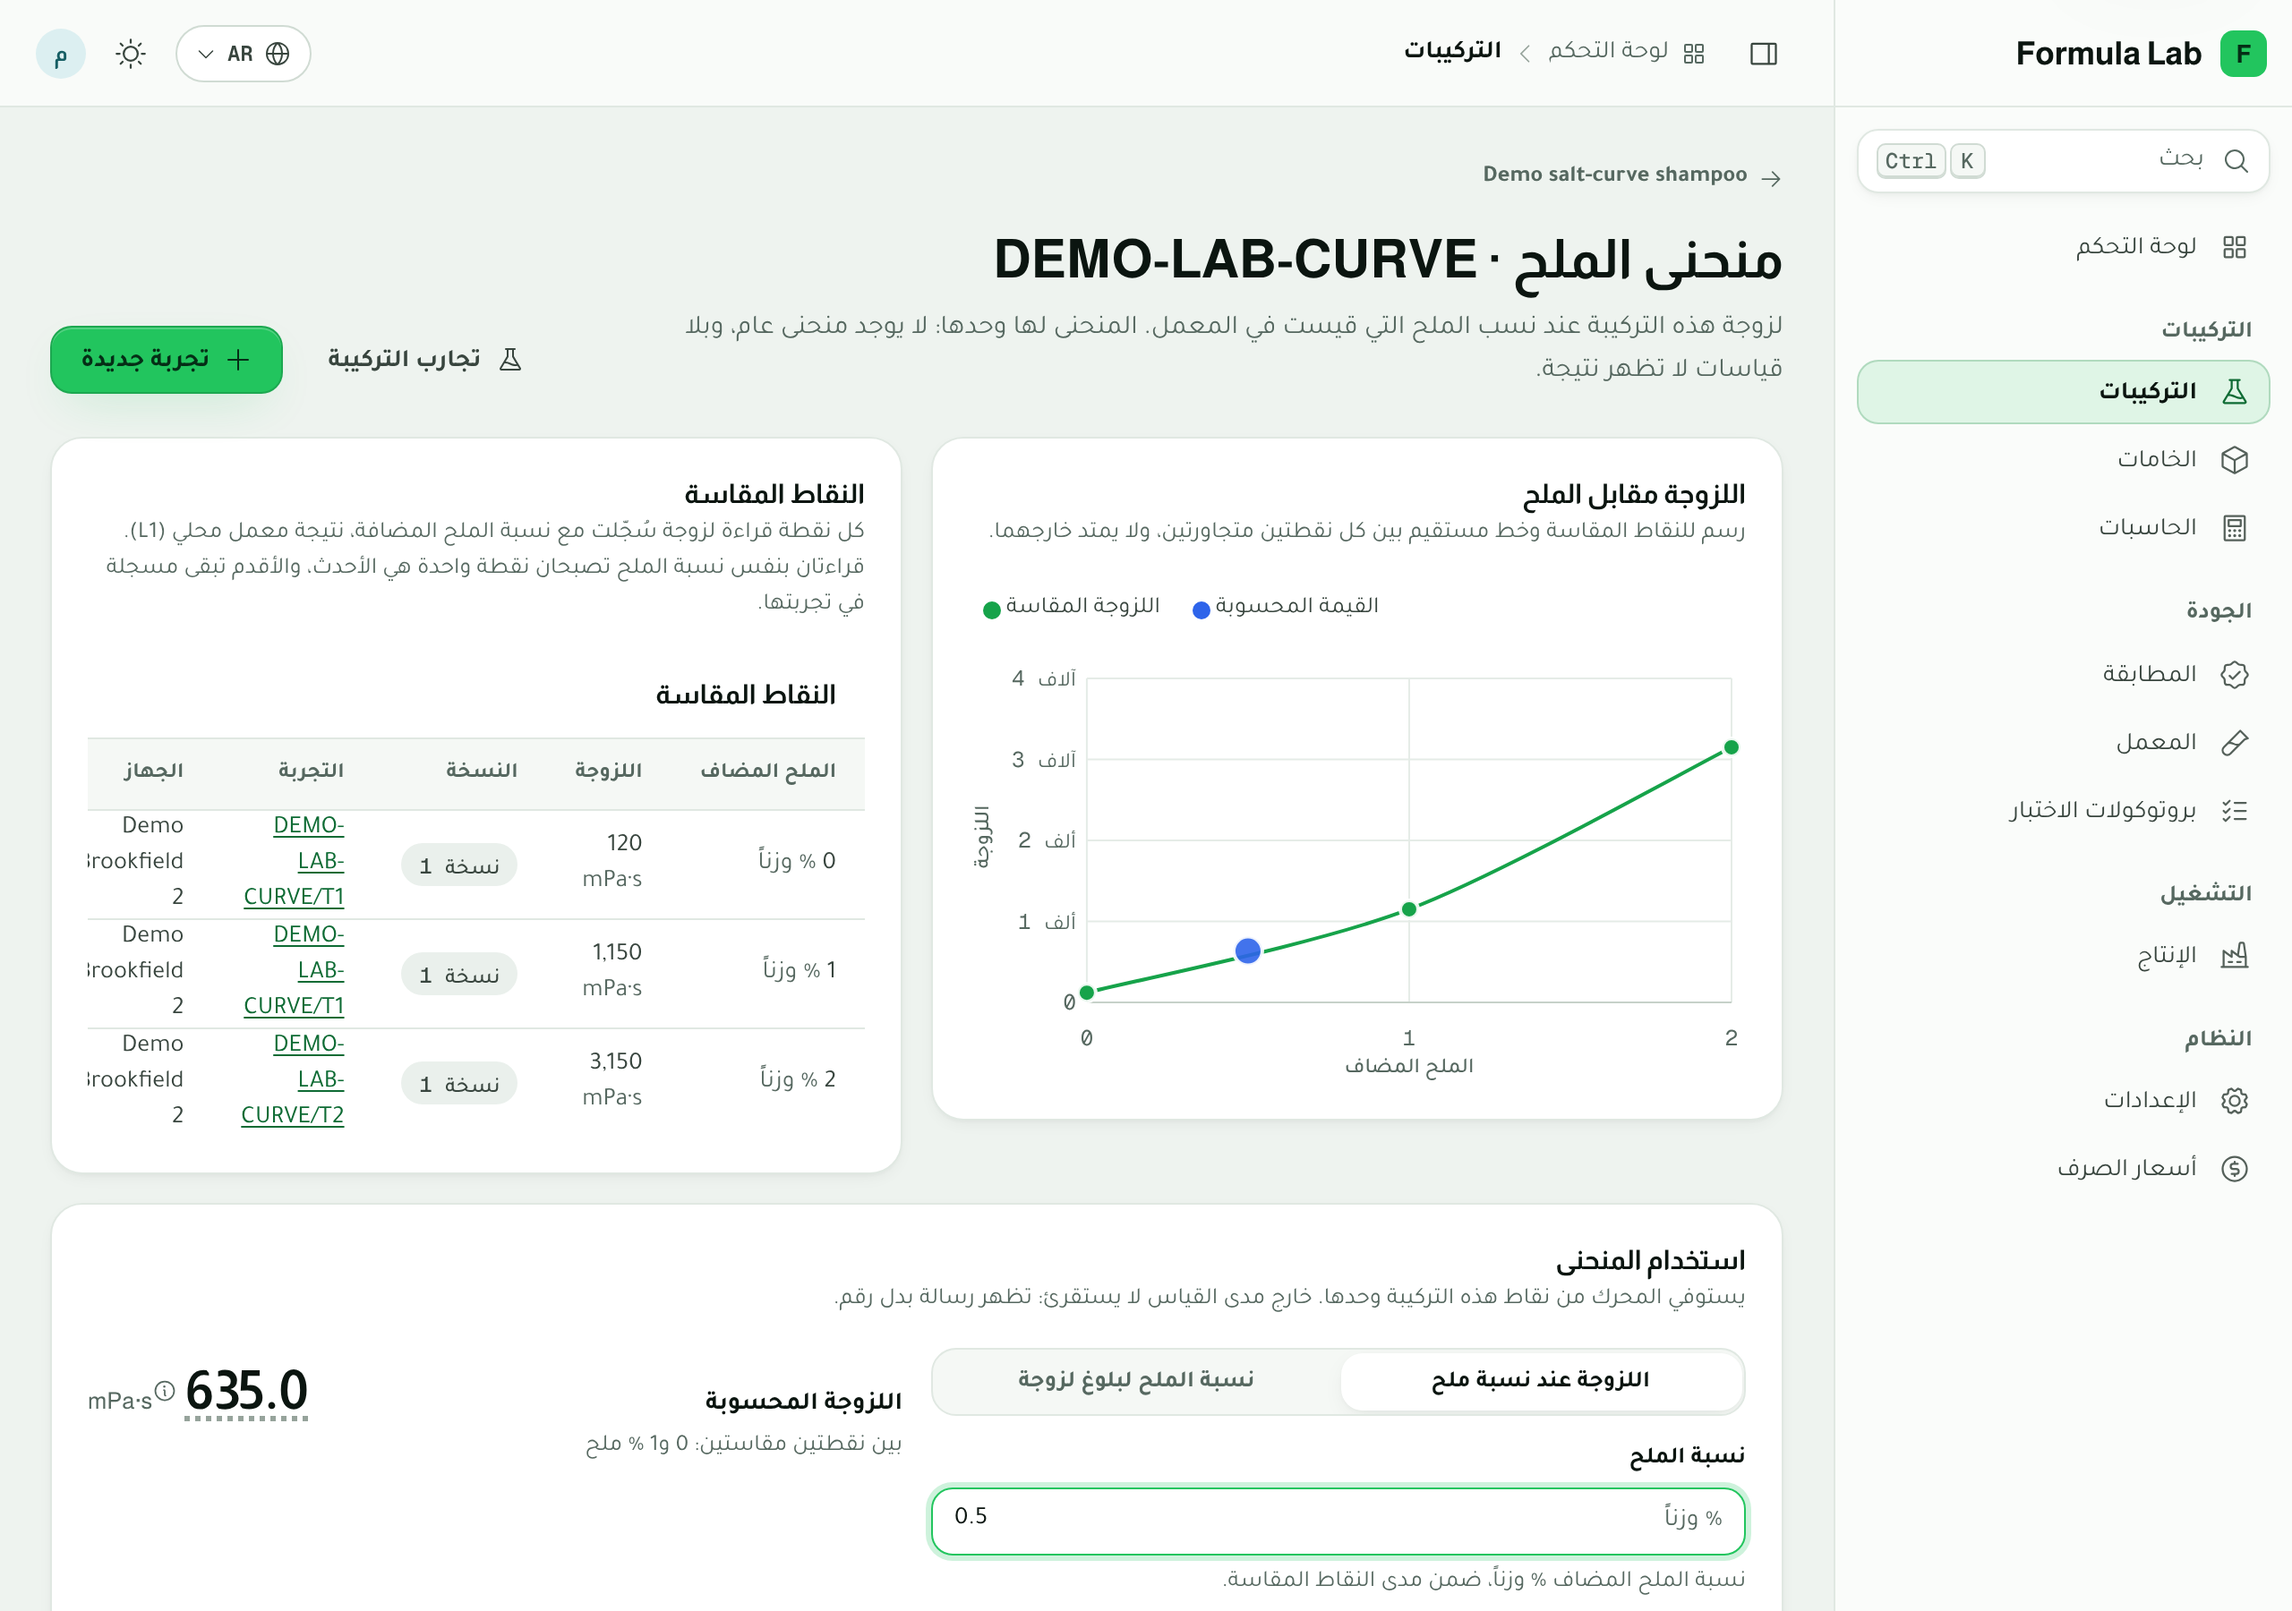
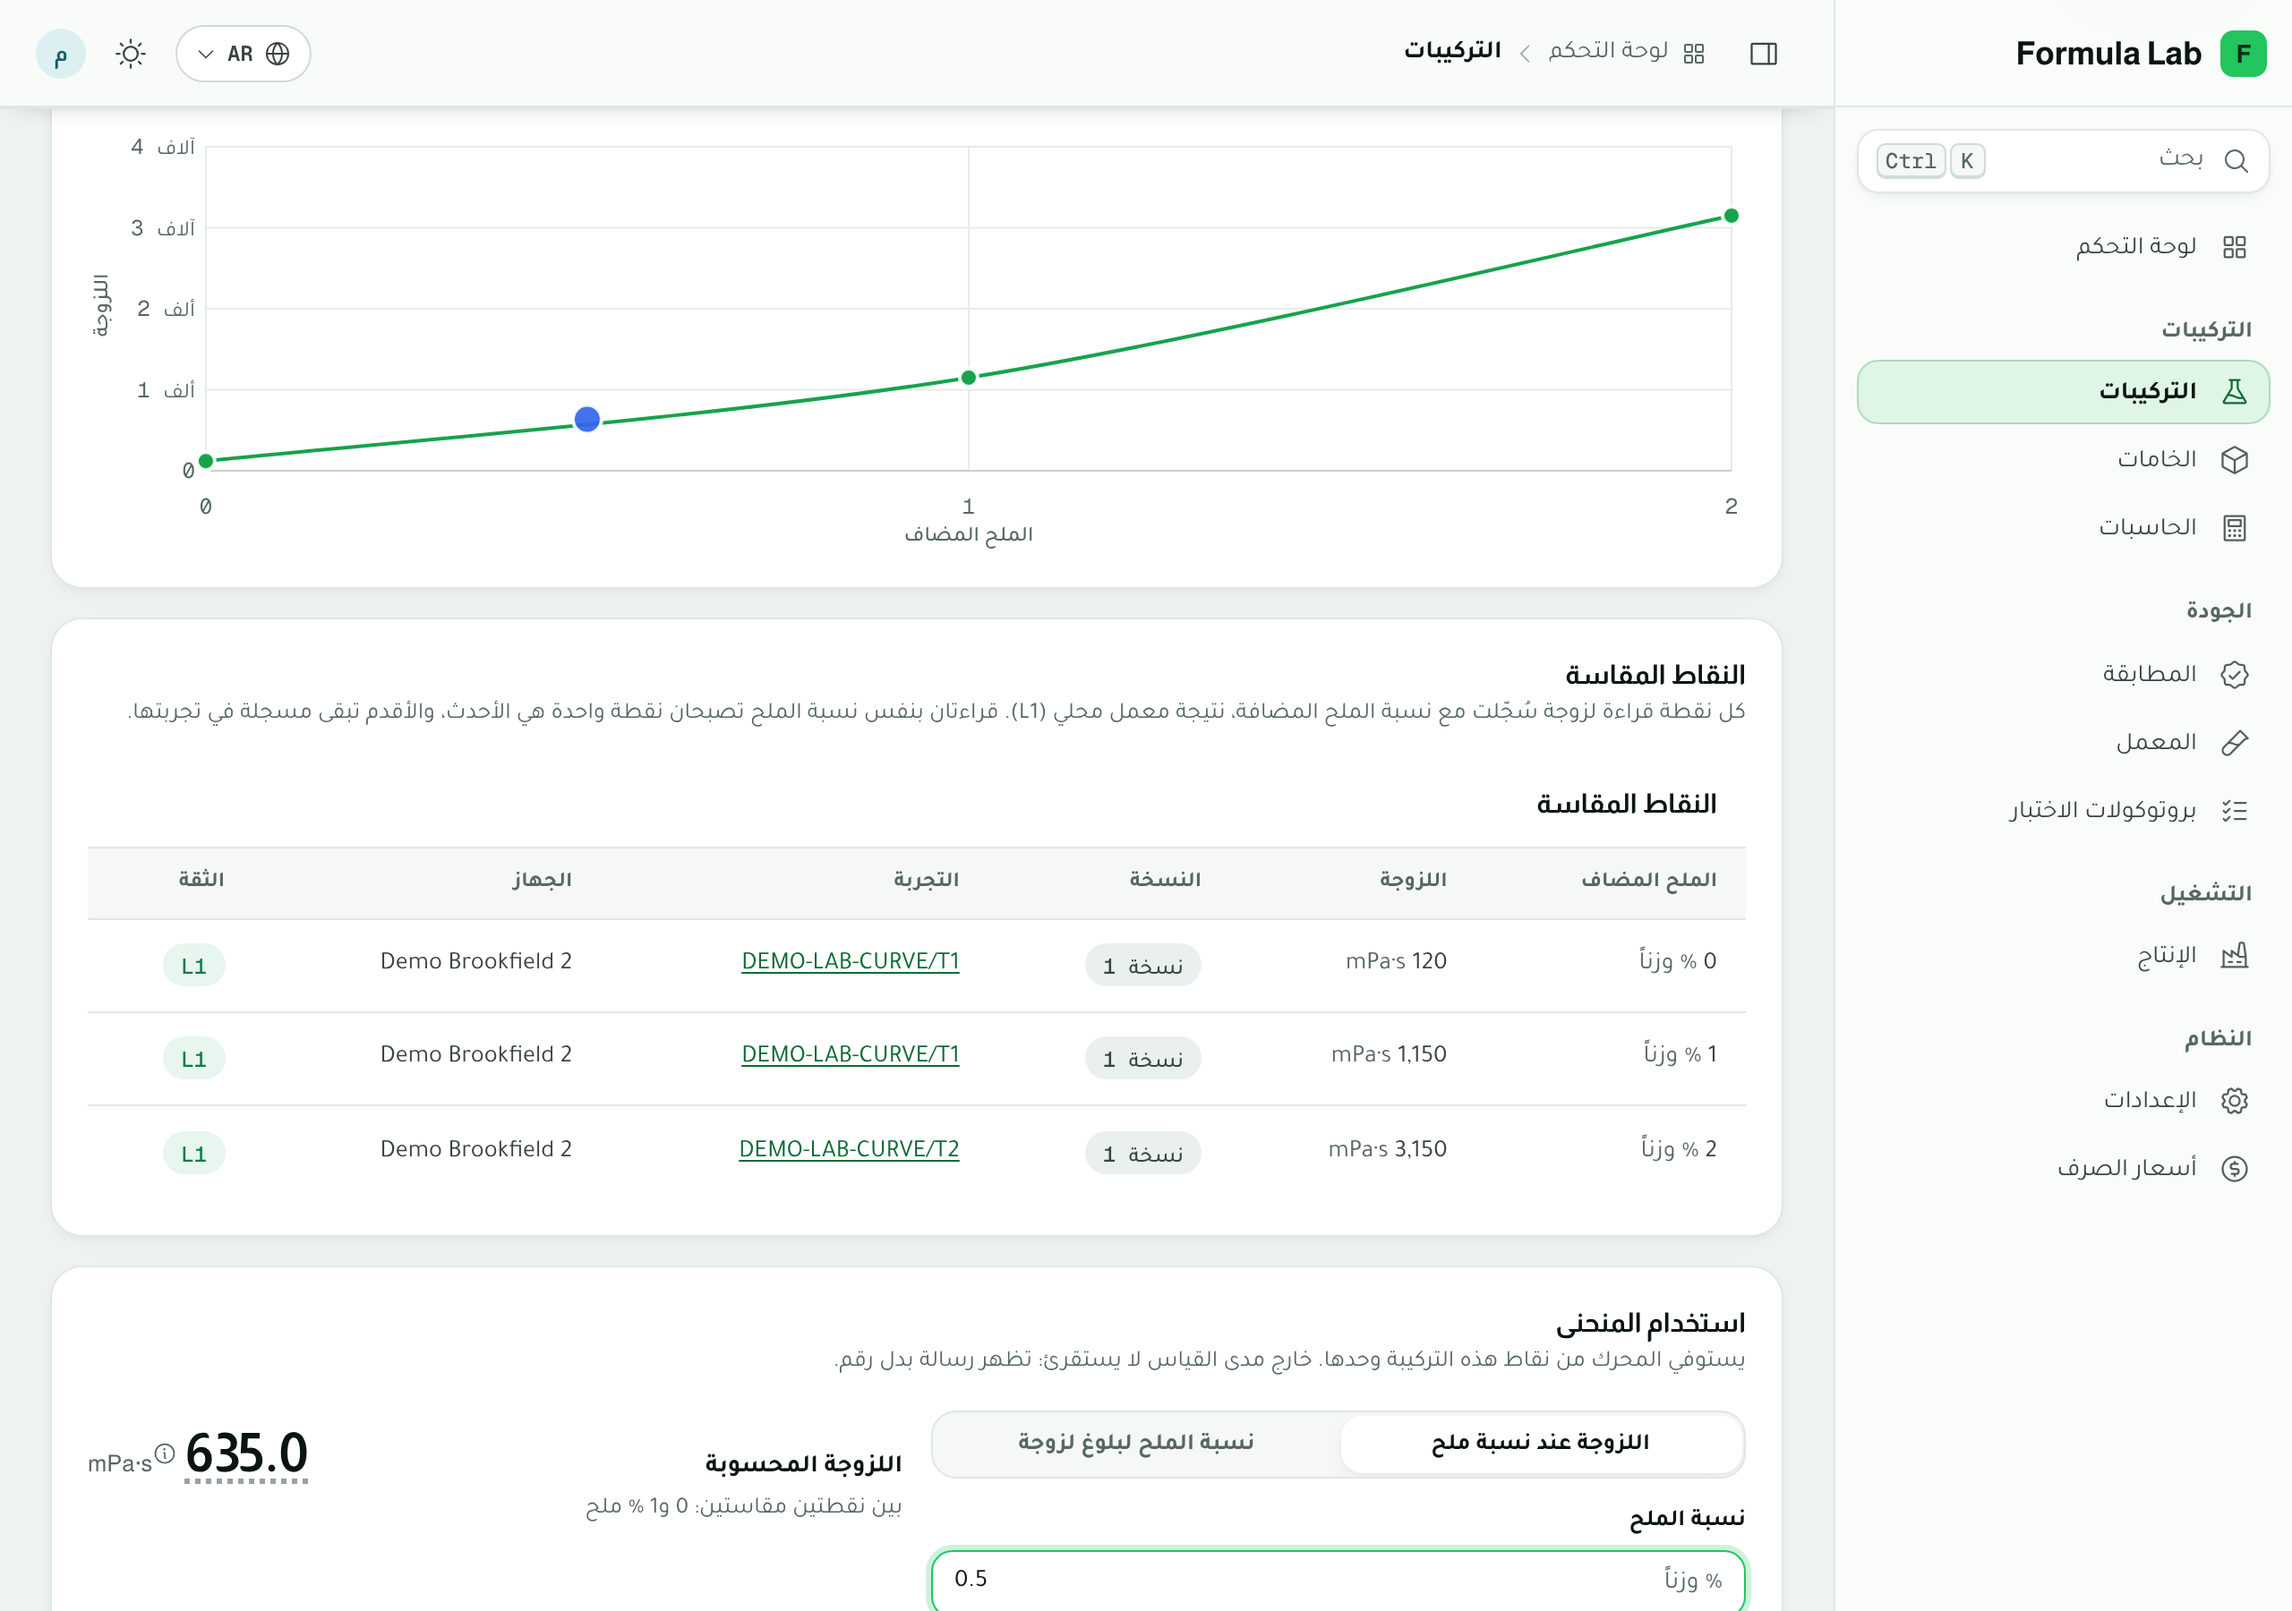
fix(e2e,O-03): scope list-demo local options to the search term; stack salt-curve chart and points table
The list-demo preloaded options were the first 8 materials by name, so the
Demo rows seeded by LabDemoSeeder (1277f17) pushed E2E Material 03 out of the
local combobox. Options now follow the same ?search= term as the list and the
spec opens the page with ?search=E2E.

The salt-curve points table sat in a half-width card and cut off the instrument
column; chart and table now stack full width. Evidence re-captured.

Claude-Session: https://claude.ai/code/session_01CJhFfSjgSaYCWPM4bvHRBa

diff --git a/apps/api/resources/js/pages/Formulas/SaltCurve.vue b/apps/api/resources/js/pages/Formulas/SaltCurve.vue
@@ -76,7 +76,7 @@ const bracketOf = (result) => (result.bracket ? t('lab.salt_curve.bracket', { fr
         <div class="flex flex-col gap-4" data-testid="salt-curve" :data-points="points.length">
             <EmptyState v-if="points.length === 0" variant="dashed" icon="ph:chart-line" :title="t('lab.salt_curve.empty_title')" :description="t('lab.salt_curve.empty_description')" data-testid="salt-empty" />
 
-            <div v-else class="grid gap-4 lg:grid-cols-2 lg:items-start">
+            <div v-else class="flex flex-col gap-4">
                 <Card :title="t('lab.salt_curve.chart_title')" :description="t('lab.salt_curve.chart_description')">
                     <ApexChart type="line" :series="series" :options="chartOptions" :aria-label="t('lab.salt_curve.chart_label')" data-testid="salt-chart" />
                 </Card>

diff --git a/e2e/list-demo.spec.ts b/e2e/list-demo.spec.ts
@@ -77,7 +77,8 @@ test('filtered-empty state offers a way out', async ({ page }) => {
 });
 
 test('entity selects: local combobox and server-searched typeahead', async ({ page }) => {
-  await page.goto('/__dev/list-demo');
+  // ?search=E2E scopes the preloaded options to the fixture rows, whatever else the database holds.
+  await page.goto('/__dev/list-demo?search=E2E');
 
   const selected = page.getByTestId('selected-values');
   await expect(selected).toContainText('—');

diff --git a/apps/api/app/Services/Dev/ListDemoService.php b/apps/api/app/Services/Dev/ListDemoService.php
@@ -40,10 +40,18 @@ final class ListDemoService
             ]);
     }
 
-    /** @return list<array{value: string, label: string}> */
-    public function materialOptions(): array
+    /**
+     * The preloaded options. A `search` term narrows them like it narrows the list, so a page opened with
+     * ?search=E2E offers only the fixture rows no matter what else the database holds.
+     *
+     * @return list<array{value: string, label: string}>
+     */
+    public function materialOptions(string $term = ''): array
     {
-        return TradeMaterial::query()->orderBy('trade_name')->limit(self::OPTION_PREVIEW_LIMIT)->get(['id', 'trade_name'])
+        return TradeMaterial::query()
+            ->when($term !== '', fn ($query) => $query->where('trade_name', 'ilike', '%'.addcslashes($term, '\\%_').'%'))
+            ->orderBy('trade_name')->limit(self::OPTION_PREVIEW_LIMIT)
+            ->get(['id', 'trade_name'])
             ->map(fn (TradeMaterial $material): array => ['value' => $material->id, 'label' => $material->trade_name])
             ->all();
     }

diff --git a/apps/api/app/Http/Controllers/Dev/ListDemoController.php b/apps/api/app/Http/Controllers/Dev/ListDemoController.php
@@ -24,7 +24,7 @@ class ListDemoController extends Controller
     {
         return Inertia::render('Dev/ListDemo', [
             'list' => $this->listDemoService->list($request, route('dev.list-demo.functions')),
-            'materialOptions' => $this->listDemoService->materialOptions(),
+            'materialOptions' => $this->listDemoService->materialOptions(trim((string) $request->query('search', ''))),
             'searchUrl' => route('dev.list-demo.materials'),
         ]);
     }
